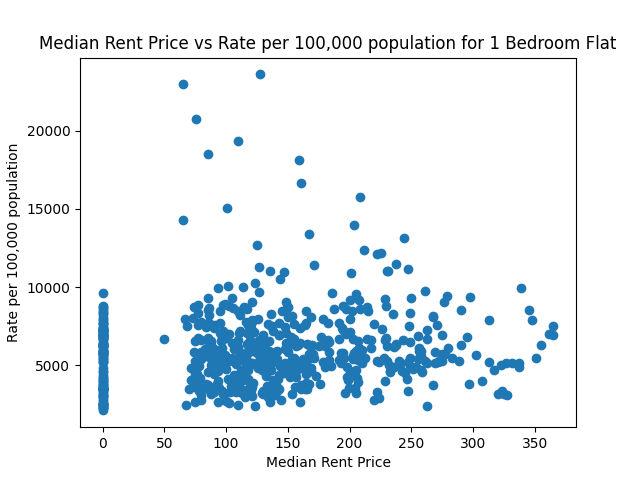
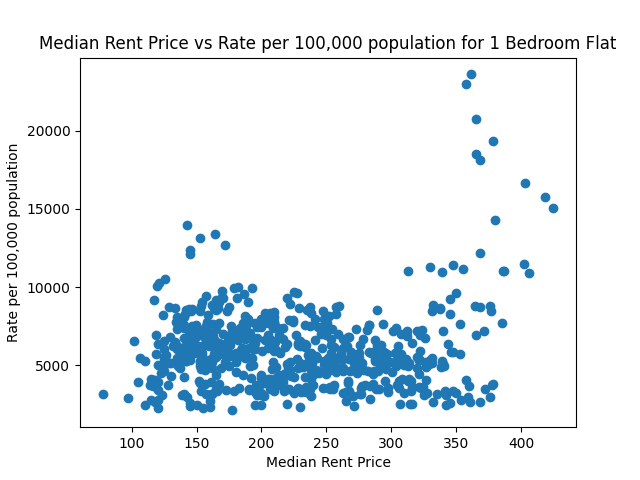
fixed preprocessing

diff --git a/scatter.py b/scatter.py
@@ -67,10 +67,13 @@ def preprocess_house(fname):
     df.insert(1, "Year", years, True)
     df.drop("Quarter", inplace=True, axis=1)
     df = df.reset_index()
+    
     prices_new = [''] * (79 * 22)
     i = 0
-    for year in list(set(years)):
-        for LGA in list(set(df["LGA"].to_list())):
+    year_set = sorted(list(set(years)))
+    LGA_set = sorted(list(set(df["LGA"].to_list())))
+    for year in year_set:
+        for LGA in LGA_set:
             temp = df[df["Year"] == year]
             temp = temp[temp["LGA"] == LGA]
             temp = temp[temp["Median House Price"] != 0]
@@ -126,7 +129,7 @@ def preprocess_crime1(fname):
 def preprocess_combined(df1, df2):
     df1["Incidents Recorded"] = df2["Incidents Recorded"]
     df1["Rate per 100,000 population"] = df2["Rate per 100,000 population"]
-    df1 = df1[df1.Count != 0]
+    df1 = df1[df1["Median House Price"] != 0]
     df1.reset_index(inplace=True)
     return df1
 

diff --git a/coefficients.py b/coefficients.py
@@ -10,10 +10,9 @@ from scatter import preprocess_crime1
 def preprocess_combined(df1, df2):
     df1["Incidents Recorded"] = df2["Incidents Recorded"]
     df1["Rate per 100,000 population"] = df2["Rate per 100,000 population"]
-    df1 = df1[df1.Count != 0]
+    df1 = df1[df1["Median House Price"] != 0]
     df1.reset_index(inplace=True)
     return df1
-
 #Calculating coefficients
 one_bf = preprocess_house("1bflat.csv") # contains count and median price
 two_bf = preprocess_house("2bflat.csv") 
